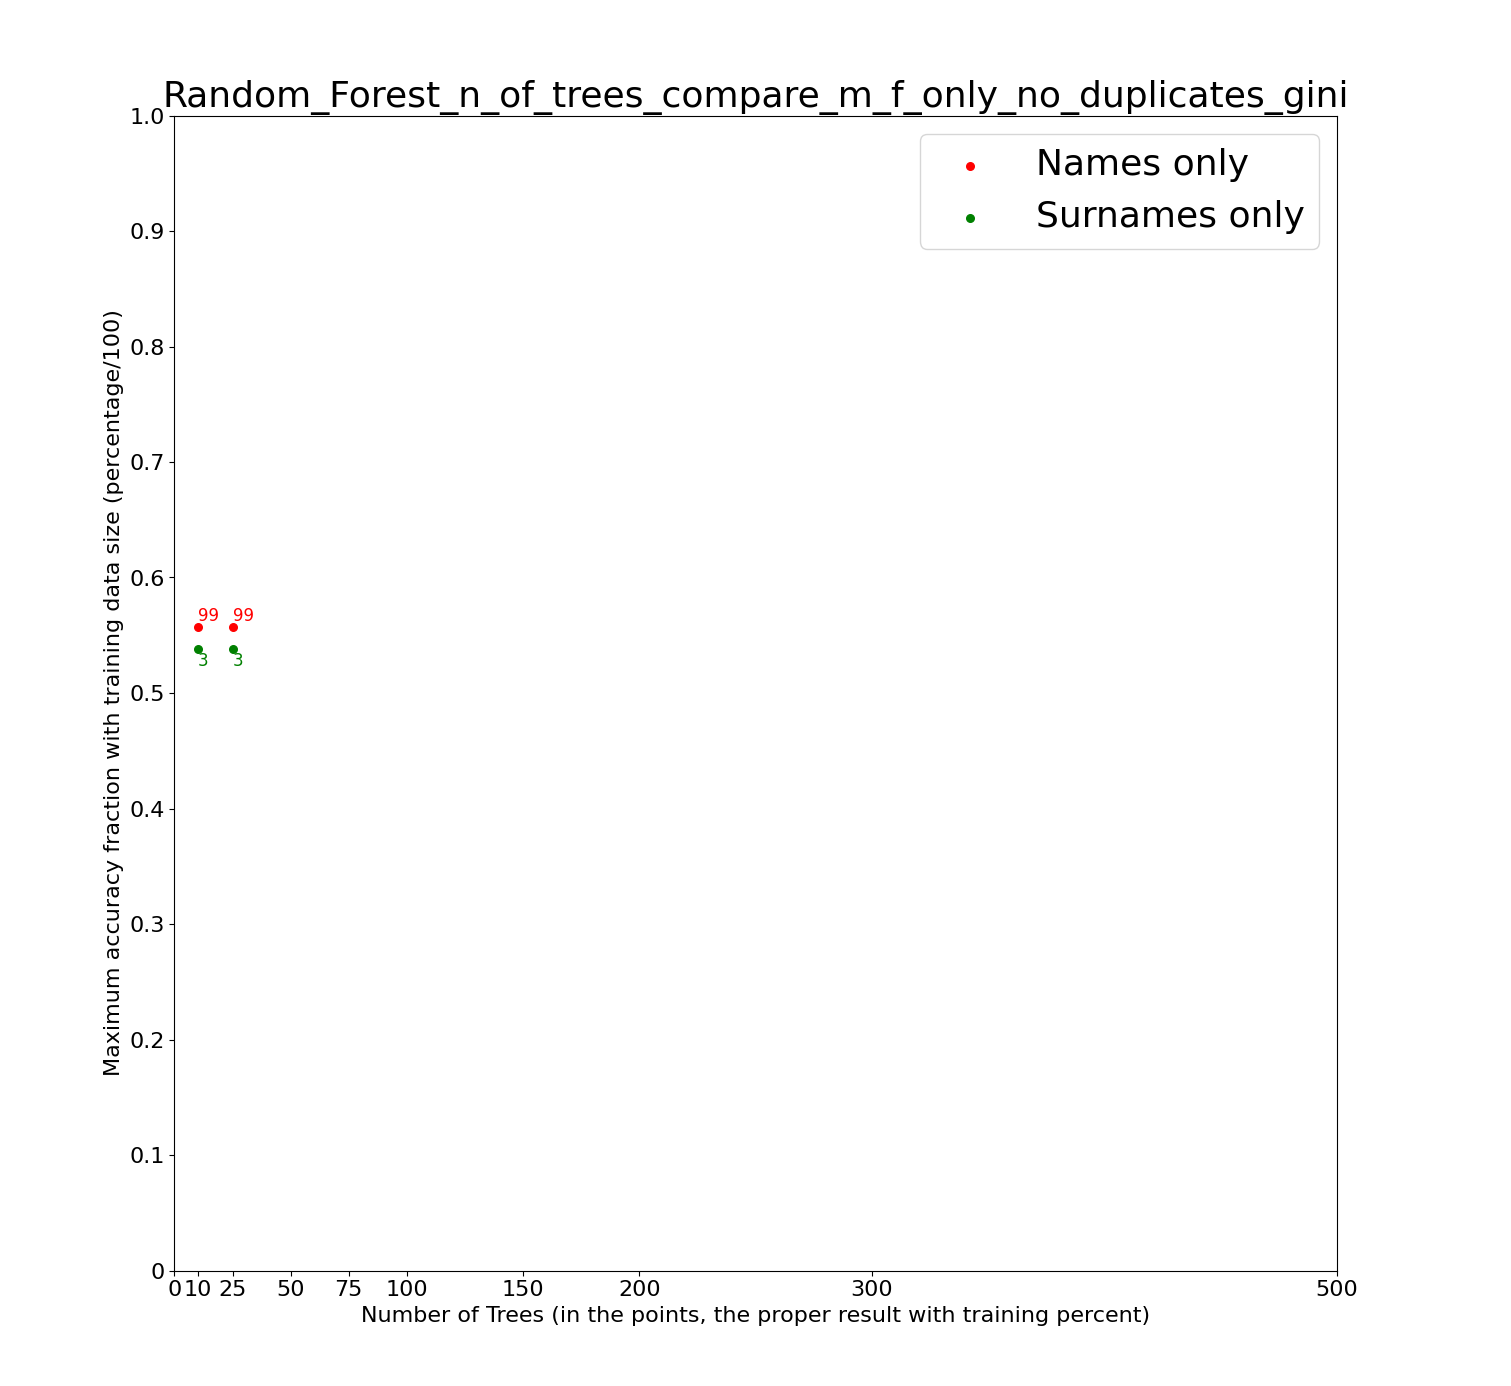
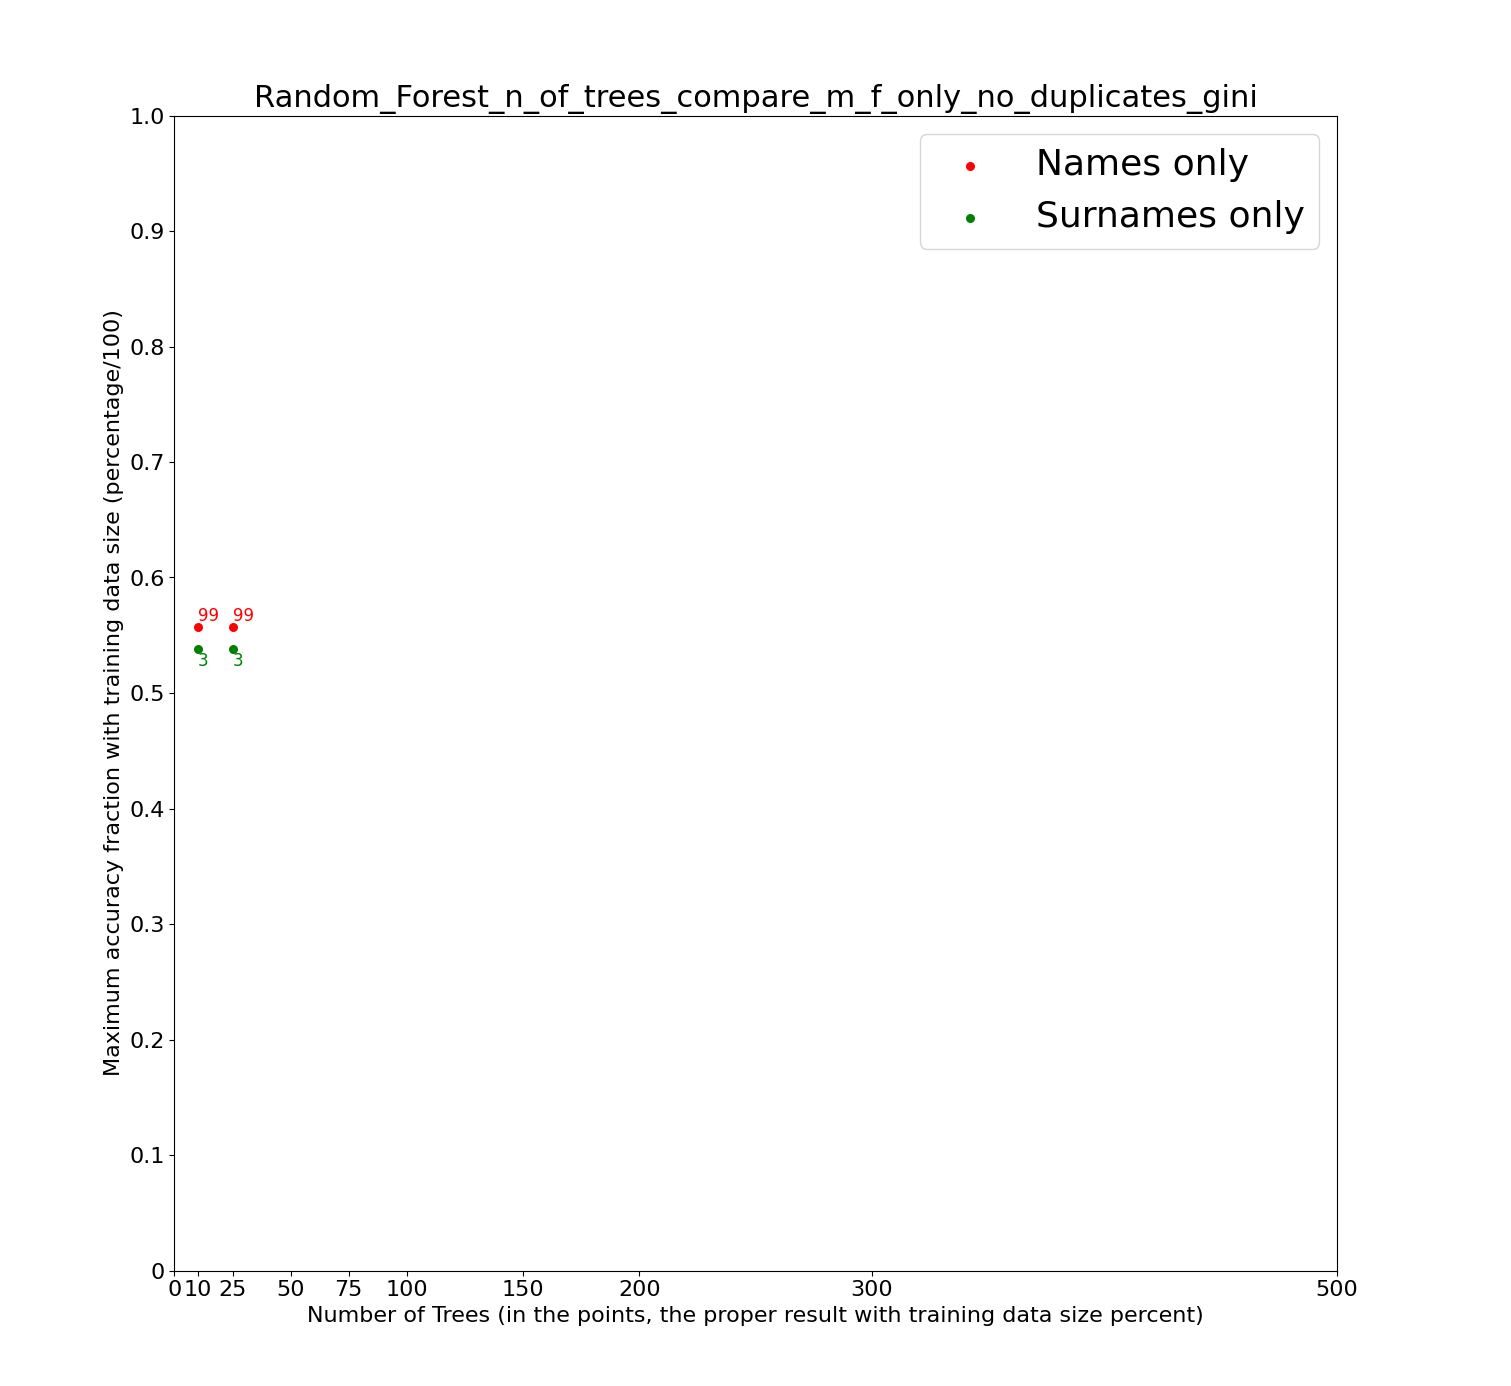
Slight changes to the graph files for Random Forest tree comparison
Slight changes to the graph files for Random Forest tree comparison

Changed region(s): [[0.0933, 0.062, 0.9021, 0.0931], [0.2177, 0.9307, 0.7776, 0.9618]]

diff --git a/PyGraphCreation/graph_creation_random_forest_trees_comparision_entropy.py b/PyGraphCreation/graph_creation_random_forest_trees_comparision_entropy.py
@@ -265,12 +265,12 @@ if __name__ == "__main__":
 
         ax.set_xticks([0, 10, 25, 50, 75, 100, 150, 200, 300, 500])
         ax.set_yticks(np.arange(0, 1.1, 0.1))
-        ax.set_xlabel("Number of Trees (in the points, the proper result with training percent)", fontsize=16)
+        ax.set_xlabel("Number of Trees (in the points, the proper result with training data size percent)", fontsize=16)
         ax.set_ylabel("Maximum accuracy fraction with training data size (percentage/100)", fontsize=16)
         ax.set_yticklabels(("0", "0.1", "0.2", "0.3", "0.4", "0.5", "0.6", "0.7", "0.8", "0.9", "1.0"), fontsize=16)
         ax.set_xticklabels(("0", "10", "25", "50", "75", "100", "150", "200", "300", "500"), fontsize=16)
 
         text = get_variable_name(condition_to_be_tested[variable], locals())
-        ax.set_title("Random_Forest_n_of_trees_compare_"+text[0], fontsize=26)
+        ax.set_title("Random_Forest_n_of_trees_compare_"+text[0], fontsize=22)
         image_with_plotters = folder_with_results + "Random_Forest_n_of_trees_compare_" + text[0] + "_n_of_trees_compare.png"
         matplotlib.pyplot.savefig(image_with_plotters, bbox_inches=ax.get_window_extent().transformed(fig.dpi_scale_trans.inverted()).expanded(1.3, 1.2))

diff --git a/PyGraphCreation/graph_creation_random_forest_trees_comparision_gini.py b/PyGraphCreation/graph_creation_random_forest_trees_comparision_gini.py
@@ -265,12 +265,12 @@ if __name__ == "__main__":
 
         ax.set_xticks([0, 10, 25, 50, 75, 100, 150, 200, 300, 500])
         ax.set_yticks(np.arange(0, 1.1, 0.1))
-        ax.set_xlabel("Number of Trees (in the points, the proper result with training percent)", fontsize=16)
+        ax.set_xlabel("Number of Trees (in the points, the proper result with training data size percent)", fontsize=16)
         ax.set_ylabel("Maximum accuracy fraction with training data size (percentage/100)", fontsize=16)
         ax.set_yticklabels(("0", "0.1", "0.2", "0.3", "0.4", "0.5", "0.6", "0.7", "0.8", "0.9", "1.0"), fontsize=16)
         ax.set_xticklabels(("0", "10", "25", "50", "75", "100", "150", "200", "300", "500"), fontsize=16)
 
         text = get_variable_name(condition_to_be_tested[variable], locals())
-        ax.set_title("Random_Forest_n_of_trees_compare_"+text[0], fontsize=26)
+        ax.set_title("Random_Forest_n_of_trees_compare_"+text[0], fontsize=22)
         image_with_plotters = folder_with_results + "Random_Forest_n_of_trees_compare_" + text[0] + "_n_of_trees_compare.png"
         matplotlib.pyplot.savefig(image_with_plotters, bbox_inches=ax.get_window_extent().transformed(fig.dpi_scale_trans.inverted()).expanded(1.3, 1.2))
